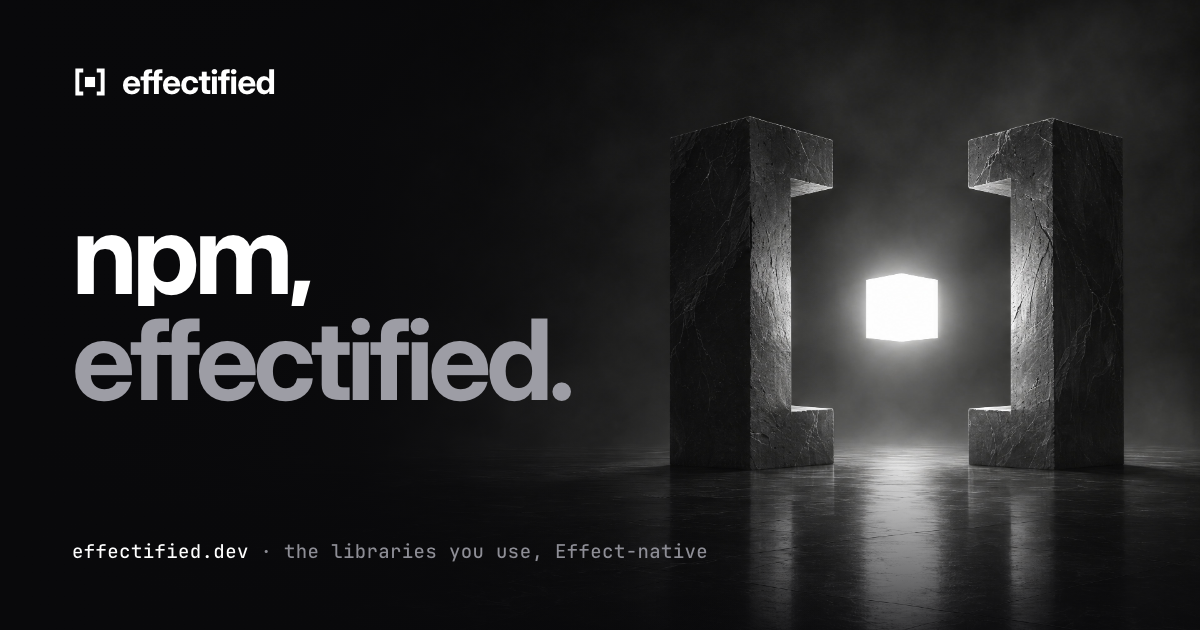
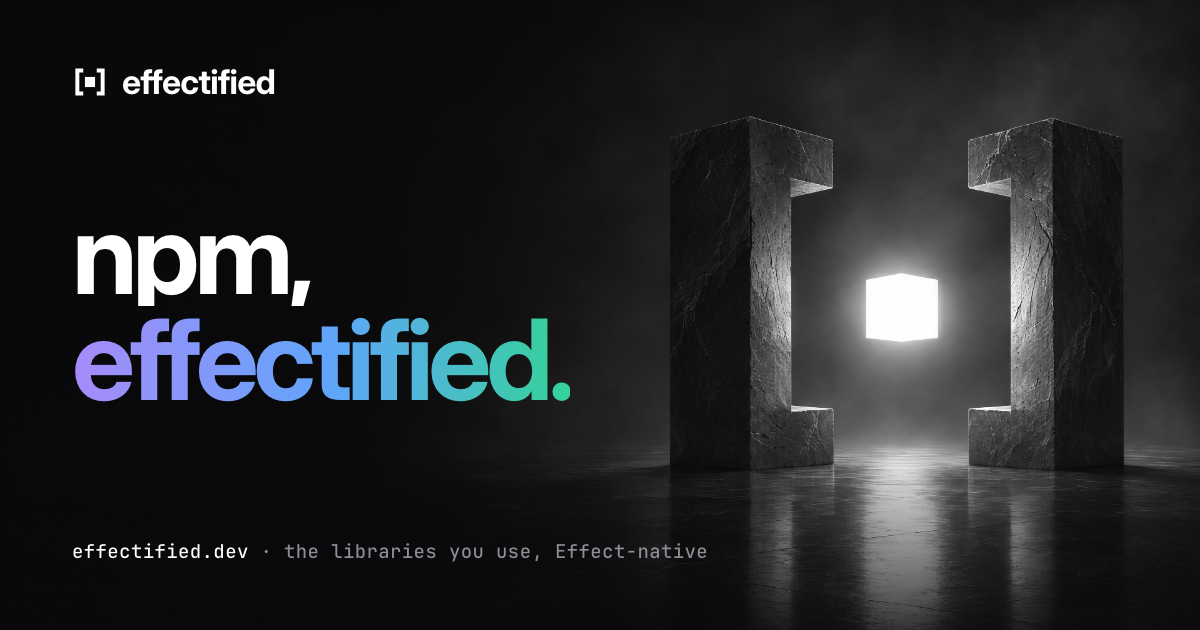
feat: colour from code, and installs from the GitHub release
Code uses effectified-dark, after effect.website's samples: violet keywords,
emerald strings, cyan modules and types, blue functions. A violet-sky-emerald
spectrum marks the hero's "effectified.", the ticker, the effectified code
pane and a light leak around the hero's cube; each promise and each package
kind has a colour of the palette. The photographs stay monochrome.

The packages install from the effectified/pi release v0.1.0 instead of npm:
an install box with npm, pnpm and Bun tabs and a copy button in the catalog
and the closing room, each package name links its tarball, and the family
links its release.

Changed region(s): [[0.0617, 0.4825, 0.4933, 0.6333]]

diff --git a/src/styles/site.css b/src/styles/site.css
@@ -26,6 +26,12 @@
 	--warn: #facc15;
 	--need: #60a5fa;
 
+	/* Accents, from the code theme: effect.website's violet and emerald, with sky between them */
+	--violet: #a78bfa;
+	--sky: #60a5fa;
+	--emerald: #34d399;
+	--spectrum: linear-gradient(90deg, var(--violet) 0%, var(--sky) 52%, var(--emerald) 100%);
+
 	--display: "Inter Display", Inter, ui-sans-serif, system-ui, sans-serif;
 	--sans: Inter, ui-sans-serif, system-ui, sans-serif;
 	--mono: "JetBrains Mono", ui-monospace, SFMono-Regular, Menlo, monospace;
@@ -125,7 +131,7 @@ code, pre { font-family: var(--mono); font-feature-settings: "calt" 1, "liga" 1;
 }
 .btn:active { transform: translateY(1px); }
 .btn-solid { background: var(--white); color: var(--ink); box-shadow: 0 0 0 rgb(255 255 255 / 0); }
-.btn-solid:hover { background: var(--mist); box-shadow: 0 0 40px -6px rgb(255 255 255 / 0.45); }
+.btn-solid:hover { background: var(--mist); box-shadow: 0 0 40px -6px rgb(167 139 250 / 0.6), 0 0 60px -12px rgb(52 211 153 / 0.4); }
 .btn-ghost { background: rgb(9 9 11 / 0.55); color: var(--white); border: 1px solid var(--line-strong); backdrop-filter: blur(8px); -webkit-backdrop-filter: blur(8px); }
 .btn-ghost:hover { background: rgb(24 24 26 / 0.8); border-color: #a1a1aa; }
 .btn-small { height: 40px; padding: 0 18px; font-size: 13px; }
@@ -175,6 +181,29 @@ h3 { font-size: 1.25rem; font-weight: 600; line-height: 1.25; letter-spacing: -0
 
 .hero-scene .scene-img { object-position: 78% 50%; animation: light-up 2.2s var(--ease) both; }
 
+/* A coloured light leak around the cube: the photograph stays monochrome, the light it gives off does not */
+.hero-leak {
+	position: absolute;
+	inset: 0;
+	z-index: -1;
+	pointer-events: none;
+	mix-blend-mode: screen;
+	background:
+		radial-gradient(22% 30% at 74% 50%, rgb(167 139 250 / 0.28), transparent 70%),
+		radial-gradient(30% 22% at 78% 74%, rgb(52 211 153 / 0.14), transparent 70%),
+		radial-gradient(18% 26% at 68% 40%, rgb(96 165 250 / 0.16), transparent 70%);
+}
+
+.spectrum {
+	display: inline-block;
+	background: var(--spectrum);
+	-webkit-background-clip: text;
+	background-clip: text;
+	color: transparent;
+	text-shadow: none;
+	padding-bottom: 0.06em;
+}
+
 .hero-scrim {
 	background:
 		linear-gradient(90deg, var(--ink) 0%, rgb(9 9 11 / 0.92) 26%, rgb(9 9 11 / 0.55) 46%, rgb(9 9 11 / 0) 64%),
@@ -185,7 +214,7 @@ h3 { font-size: 1.25rem; font-weight: 600; line-height: 1.25; letter-spacing: -0
 .hero-copy { max-width: 2240px; }
 .hero-copy > * { max-width: 760px; }
 .hero h1 { margin-top: 26px; font-size: clamp(3.2rem, 7vw, 8rem); line-height: 0.95; letter-spacing: -0.045em; text-shadow: 0 0 3px var(--ink), 0 0 22px rgb(9 9 11 / 0.7); }
-.hero h1 .fade { text-shadow: none; }
+.hero h1 .fade { display: block; text-shadow: none; }
 .hero h1 .dim { display: block; }
 .hero .lede { margin-top: 30px; max-width: 36em; text-shadow: 0 0 14px var(--ink); }
 
@@ -203,7 +232,7 @@ h3 { font-size: 1.25rem; font-weight: 600; line-height: 1.25; letter-spacing: -0
 .wrapper { display: inline-flex; align-items: center; color: var(--white); font: 500 15px/1 var(--mono); }
 .bracket { display: inline-block; font-size: 1.4em; transition: transform 700ms var(--ease); }
 .wrapper-name { display: inline-block; min-width: 13ch; text-align: center; }
-.wrapper-name span { display: inline-block; transition: opacity 360ms var(--ease), filter 360ms var(--ease); }
+.wrapper-name span { display: inline-block; transition: opacity 360ms var(--ease), filter 360ms var(--ease); background: var(--spectrum); -webkit-background-clip: text; background-clip: text; color: transparent; }
 .wrapper[data-state="open"] .bracket-l { transform: translateX(-10px); }
 .wrapper[data-state="open"] .bracket-r { transform: translateX(10px); }
 .wrapper[data-state="open"] .wrapper-name span { opacity: 0.2; filter: blur(3px); }
@@ -213,7 +242,21 @@ h3 { font-size: 1.25rem; font-weight: 600; line-height: 1.25; letter-spacing: -0
 .compare { display: grid; grid-template-columns: repeat(2, minmax(0, 1fr)); gap: 16px; }
 
 .pane { border: 1px solid var(--line); border-radius: 14px; background: var(--well); overflow: hidden; display: flex; flex-direction: column; }
-.pane-lit { border-color: var(--line-strong); box-shadow: 0 40px 120px -40px rgb(255 255 255 / 0.12), 0 0 0 1px rgb(255 255 255 / 0.03); }
+/* The effectified side: a spectrum edge and a coloured glow below it */
+.pane-lit {
+	border: 1px solid transparent;
+	background: linear-gradient(var(--well), var(--well)) padding-box, linear-gradient(135deg, rgb(167 139 250 / 0.7), rgb(96 165 250 / 0.35) 45%, rgb(52 211 153 / 0.7)) border-box;
+	box-shadow: 0 40px 120px -40px rgb(167 139 250 / 0.35), 0 50px 140px -60px rgb(52 211 153 / 0.3);
+}
+.compare { position: relative; }
+.compare::before {
+	content: "";
+	position: absolute;
+	inset: -10% 0 -20% 30%;
+	z-index: -1;
+	pointer-events: none;
+	background: radial-gradient(50% 50% at 60% 50%, rgb(167 139 250 / 0.1), transparent 70%), radial-gradient(40% 40% at 80% 80%, rgb(52 211 153 / 0.08), transparent 70%);
+}
 .pane-head { display: flex; justify-content: space-between; align-items: center; gap: 12px; padding: 14px 20px; border-bottom: 1px solid var(--line); }
 .pane-head .label { font-size: 11.5px; }
 .pane-lit .pane-head .label:first-child { color: var(--white); }
@@ -250,7 +293,20 @@ h3 { font-size: 1.25rem; font-weight: 600; line-height: 1.25; letter-spacing: -0
 
 .promises { display: grid; grid-template-columns: repeat(3, minmax(0, 1fr)); gap: 16px; }
 .promises > div { padding: 28px 28px 32px; min-height: 230px; }
-.promises .num { display: block; margin-bottom: 40px; font: 500 12px/1 var(--mono); color: var(--muted); letter-spacing: 0.08em; }
+.promises .num { display: inline-flex; align-items: center; gap: 10px; margin-bottom: 40px; font: 500 12px/1 var(--mono); color: var(--tone); letter-spacing: 0.08em; }
+.promises .num::before { content: ""; width: 8px; height: 8px; border-radius: 2px; background: var(--tone); box-shadow: 0 0 14px var(--tone); }
+.promises > div { position: relative; overflow: hidden; }
+.promises > div::after {
+	content: "";
+	position: absolute;
+	left: 0;
+	right: 0;
+	top: 0;
+	height: 1px;
+	background: linear-gradient(90deg, transparent, var(--tone), transparent);
+	opacity: 0.7;
+}
+.promises > div:hover { border-color: color-mix(in srgb, var(--tone) 55%, transparent); box-shadow: 0 20px 60px -30px var(--tone); }
 .promises p { margin: 12px 0 0; max-width: 46ch; text-wrap: pretty; }
 
 /* How it works: the band of three stages, the stations below their stage */
@@ -290,8 +346,18 @@ h3 { font-size: 1.25rem; font-weight: 600; line-height: 1.25; letter-spacing: -0
 .pkgs tbody tr { transition: background 120ms; }
 .pkgs tbody tr:hover { background: rgb(255 255 255 / 0.025); }
 .pkgs .name { font: 500 13.5px/1.5 var(--mono); color: var(--white); white-space: nowrap; }
+.pkgs .name a { transition: color 140ms; }
+.pkgs .name a:hover { color: var(--violet); }
+
+/* Kinds: a colour dot each, the same in the table and the legend */
+.k-facade { --k: #38bdf8; }
+.k-plugin { --k: #a78bfa; }
+.k-host { --k: #fbbf24; }
+.k-composition { --k: #34d399; }
+.k-docs { --k: #a1a1aa; }
+.pkgs .kind::before, .kinds b::before { content: ""; display: inline-block; width: 7px; height: 7px; margin-right: 8px; border-radius: 50%; background: var(--k); box-shadow: 0 0 10px var(--k); vertical-align: 1px; }
 .pkgs .name .scope { color: var(--muted); }
-.pkgs .kind { font: 500 12px/1.5 var(--mono); color: var(--mist); }
+.pkgs .kind { font: 500 12px/1.5 var(--mono); color: var(--mist); white-space: nowrap; }
 .pkgs .wraps { font: 400 12.5px/1.5 var(--mono); color: var(--subtle); }
 
 .kinds { display: grid; grid-template-columns: repeat(5, minmax(0, 1fr)); margin-top: 16px; border-top: 1px solid var(--line); }
@@ -313,11 +379,33 @@ h3 { font-size: 1.25rem; font-weight: 600; line-height: 1.25; letter-spacing: -0
 .closing .scene-img { object-position: 50% 70%; }
 .closing h2 { margin-top: 22px; font-size: clamp(2.8rem, 7vw, 6.5rem); line-height: 0.96; letter-spacing: -0.045em; }
 .closing h2 .dim { display: block; }
-.terminal { margin-top: clamp(48px, 18vw, 340px); max-width: 760px; border: 1px solid var(--line-strong); border-radius: 14px; background: rgb(12 12 14 / 0.78); backdrop-filter: blur(12px); -webkit-backdrop-filter: blur(12px); box-shadow: 0 30px 90px -30px rgb(0 0 0 / 0.9); overflow: hidden; }
-.terminal-bar { display: flex; gap: 7px; padding: 13px 16px; border-bottom: 1px solid var(--line); }
-.terminal-bar i { width: 10px; height: 10px; border-radius: 50%; background: var(--line-strong); }
-.terminal pre { margin: 0; padding: 20px 22px; font-size: 13.5px; line-height: 1.8; color: #d4d4d8; overflow-x: auto; }
-.terminal .p { color: var(--muted); }
+.closing-install { margin-top: clamp(48px, 16vw, 300px); max-width: 980px; }
+
+/* Install: one package from its GitHub release, per package manager */
+
+.install {
+	border: 1px solid var(--line-strong);
+	border-radius: 14px;
+	background: rgb(12 12 14 / 0.82);
+	backdrop-filter: blur(12px);
+	-webkit-backdrop-filter: blur(12px);
+	box-shadow: 0 30px 90px -30px rgb(0 0 0 / 0.9), 0 0 60px -30px rgb(167 139 250 / 0.35);
+	overflow: hidden;
+}
+.install-bar { display: flex; justify-content: space-between; align-items: center; gap: 12px; padding: 8px 10px 8px 8px; border-bottom: 1px solid var(--line); }
+.install-tabs { display: flex; gap: 4px; }
+.install button { font: 500 12.5px/1 var(--mono); color: var(--muted); background: none; border: 1px solid transparent; border-radius: 7px; padding: 8px 12px; cursor: pointer; transition: color 140ms, background 140ms, border-color 140ms; }
+.install button:hover { color: var(--white); }
+.install [role="tab"][aria-selected="true"] { color: var(--white); background: var(--tile); border-color: var(--line-strong); }
+.install-copy { border-color: var(--line) !important; }
+.install-line { margin: 0; padding: 18px 20px; font-size: 13px; line-height: 1.7; color: var(--mist); white-space: pre-wrap; word-break: break-all; }
+.install-line .p { color: var(--violet); user-select: none; }
+.install-line code { font-size: inherit; color: inherit; }
+
+.release { display: grid; grid-template-columns: minmax(0, 0.9fr) minmax(0, 1.4fr); gap: 32px; align-items: center; margin-top: 40px; padding-top: 32px; border-top: 1px solid var(--line); }
+.release p { margin: 12px 0 0; max-width: 46ch; }
+.release a { color: var(--white); border-bottom: 1px solid var(--line-strong); }
+.release a:hover { border-color: var(--violet); }
 
 /* Footer */
 
@@ -374,6 +462,7 @@ h3 { font-size: 1.25rem; font-weight: 600; line-height: 1.25; letter-spacing: -0
 @media (max-width: 1000px) {
 	.compare, .pipeline { grid-template-columns: minmax(0, 1fr); }
 	.pipeline { margin-top: 16px; }
+	.release { grid-template-columns: minmax(0, 1fr); }
 	.band .scene-img { aspect-ratio: 2 / 1; object-position: 50% 60%; }
 }
 
@@ -385,6 +474,7 @@ h3 { font-size: 1.25rem; font-weight: 600; line-height: 1.25; letter-spacing: -0
 	.hero { flex-direction: column; align-items: stretch; padding: 56px 0 0; min-height: 0; }
 	.hero-scene { position: relative; inset: auto; order: 2; height: 46svh; margin-top: 40px; }
 	.hero-scene .scene-img { object-position: 74% 50%; }
+	.hero-leak { top: auto; height: 46svh; }
 	.hero-scrim { background: linear-gradient(180deg, var(--ink) 0%, rgb(9 9 11 / 0) 30%), linear-gradient(0deg, var(--ink) 0%, rgb(9 9 11 / 0) 25%); top: auto; height: 46svh; }
 	.contract-scrim { background: rgb(9 9 11 / 0.86); }
 	.field-scrim { background: linear-gradient(180deg, var(--ink) 0%, rgb(9 9 11 / 0.75) 45%, rgb(9 9 11 / 0.6) 80%, var(--ink) 100%); }
@@ -393,6 +483,10 @@ h3 { font-size: 1.25rem; font-weight: 600; line-height: 1.25; letter-spacing: -0
 	.promises .num { margin-bottom: 18px; }
 
 	/* One package per block: the name over its kind and summary */
+	.install-bar { padding: 6px; }
+	.install button { padding: 7px 9px; }
+	.install-line { padding: 14px 16px; font-size: 12px; }
+	.release { grid-template-columns: minmax(0, 1fr); }
 	.pkgs thead { display: none; }
 	.pkgs tr { display: block; padding: 16px 18px; border-bottom: 1px solid var(--line); }
 	.pkgs tr:last-child { border-bottom: 0; }

diff --git a/src/code-theme.ts b/src/code-theme.ts
@@ -1,19 +1,29 @@
-// The monochrome code theme of the brand: keywords white, names near-white, strings and punctuation zinc, comments muted.
+// The site's code theme, in the spirit of effect.website's samples: violet keywords, emerald strings, cyan for
+// Effect's modules and types, blue functions, orange numbers, muted comments, on the brand's zinc well.
 import type { ThemeRegistration } from "shiki";
 
-/** EffectScript's monochrome Shiki theme, shared by the effectified family of sites. */
-export const monochrome: ThemeRegistration = {
-	name: "effectified-mono",
+/** Effect-style dark syntax colours, used by every code block on the site. */
+export const effectifiedDark: ThemeRegistration = {
+	name: "effectified-dark",
 	type: "dark",
-	colors: { "editor.background": "#0c0c0e", "editor.foreground": "#d4d4d8" },
+	colors: { "editor.background": "#0c0c0e", "editor.foreground": "#e4e4e7" },
 	settings: [
-		{ settings: { foreground: "#d4d4d8" } },
-		{ scope: ["comment", "punctuation.definition.comment"], settings: { foreground: "#8e8e96", fontStyle: "italic" } },
-		{ scope: ["keyword", "storage", "storage.type", "keyword.control", "keyword.operator.new"], settings: { foreground: "#ffffff" } },
-		{ scope: ["string", "string.quoted", "string.template"], settings: { foreground: "#a1a1aa" } },
-		{ scope: ["constant.numeric", "support.type", "entity.name.type", "entity.name.class"], settings: { foreground: "#e4e4e7" } },
-		{ scope: ["entity.name.function", "support.function", "meta.function-call"], settings: { foreground: "#f4f4f5" } },
-		{ scope: ["variable", "variable.other", "meta.object-literal.key"], settings: { foreground: "#d4d4d8" } },
-		{ scope: ["punctuation", "meta.brace", "keyword.operator"], settings: { foreground: "#8e8e96" } },
+		{ settings: { foreground: "#e4e4e7" } },
+		{ scope: ["comment", "punctuation.definition.comment"], settings: { foreground: "#71717a", fontStyle: "italic" } },
+		{
+			scope: ["keyword", "storage", "storage.type", "storage.modifier", "keyword.control", "keyword.operator.new", "keyword.operator.expression", "keyword.generator.asterisk"],
+			settings: { foreground: "#a78bfa" },
+		},
+		{ scope: ["string", "string.quoted", "string.template", "punctuation.definition.string"], settings: { foreground: "#34d399" } },
+		{ scope: ["constant.numeric", "constant.language", "constant.character"], settings: { foreground: "#fdba74" } },
+		{
+			scope: ["entity.name.type", "entity.name.class", "support.type", "support.class", "variable.other.object", "variable.other.constant.object", "entity.other.inherited-class"],
+			settings: { foreground: "#67e8f9" },
+		},
+		{ scope: ["entity.name.function", "support.function", "meta.function-call entity.name.function", "variable.function"], settings: { foreground: "#93c5fd" } },
+		{ scope: ["variable.parameter"], settings: { foreground: "#fda4af" } },
+		{ scope: ["meta.object-literal.key", "support.type.property-name", "variable.other.property"], settings: { foreground: "#d4d4d8" } },
+		{ scope: ["punctuation", "meta.brace", "keyword.operator"], settings: { foreground: "#a1a1aa" } },
+		{ scope: ["variable.language.this", "variable.language"], settings: { foreground: "#a78bfa" } },
 	],
 };

diff --git a/src/data/catalog.ts b/src/data/catalog.ts
@@ -21,6 +21,8 @@ export interface Family {
 	/** The npm scope of the family's packages. */
 	readonly scope: string;
 	readonly status: "alpha";
+	/** The GitHub release the packages install from: `<base>/<scope>-<name>-<version>.tgz`. */
+	readonly release: { readonly tag: string; readonly version: string; readonly base: string };
 	readonly effect: string;
 	readonly packages: ReadonlyArray<Package>;
 }
@@ -43,6 +45,11 @@ export const FAMILIES: ReadonlyArray<Family> = [
 		repo: "https://github.com/effectified/pi",
 		scope: "@effectified",
 		status: "alpha",
+		release: {
+			tag: "v0.1.0",
+			version: "0.1.0",
+			base: "https://github.com/effectified/pi/releases/download/v0.1.0",
+		},
 		effect: "~4.1.5",
 		packages: [
 			{
@@ -151,3 +158,8 @@ export const totals = {
 	packages: FAMILIES.reduce((sum, family) => sum + family.packages.length, 0),
 	upstream: new Set(FAMILIES.flatMap((family) => family.packages.flatMap((pkg) => pkg.wraps.map((w) => `${family.id}/${w}`)))).size,
 };
+
+/** The release URL of a package's tarball, as `npm pack` names it. */
+export function tarballUrl(family: Family, pkg: Package): string {
+	return `${family.release.base}/${family.scope.slice(1)}-${pkg.name}-${family.release.version}.tgz`;
+}

diff --git a/brand/og.html b/brand/og.html
@@ -20,7 +20,7 @@
 			.lockup span { font: 700 34px/1 "Inter Display"; letter-spacing: -0.022em; }
 			h1 { position: absolute; left: 72px; top: 200px; margin: 0; font: 700 112px/0.95 "Inter Display"; letter-spacing: -0.045em; }
 			h1 .a { background: linear-gradient(90deg, #fff 0%, #fff 70%, #96969c 100%); -webkit-background-clip: text; color: transparent; display: block; }
-			h1 .b { color: #9d9da5; display: block; }
+			h1 .b { background: linear-gradient(90deg, #a78bfa 0%, #60a5fa 52%, #34d399 100%); -webkit-background-clip: text; color: transparent; display: inline-block; padding-bottom: 0.06em; }
 			p { position: absolute; left: 72px; bottom: 64px; margin: 0; font: 500 19px/1.4 "JetBrains Mono"; letter-spacing: 0.02em; color: #8e8e96; }
 			p b { color: #fff; font-weight: 500; }
 		</style>

diff --git a/README.md b/README.md
@@ -44,8 +44,15 @@ are computed from it at build time; never write a number into the page by hand.
 ## Brand
 
 The EffectScript exhibition system on ink: Effect's zinc palette, Inter Display for headlines, Inter for body,
-JetBrains Mono for code and labels. Light is the only colour; the signal colours (✓ pass, ! fail, ▲ warn,
-◇ need) mark state only, always with their glyph.
+JetBrains Mono for code and labels. The photographs stay monochrome; colour comes from code, as on
+effect.website:
+
+- Code uses `effectified-dark` (`src/code-theme.ts`): violet keywords, emerald strings, cyan for Effect's modules and
+  types, blue functions, orange numbers, muted comments.
+- The accent is the spectrum violet → sky → emerald (`--spectrum`), used sparingly: the hero's "effectified.", the
+  ticker, the effectified code pane's edge and glow, and the light leak around the hero's cube.
+- Each promise and each package kind has one colour from the code palette, shown as a dot or a thin rule.
+- The signal colours (✓ pass, ! fail, ▲ warn, ◇ need) still mark state only, always with their glyph.
 
 The mark is two brackets closed around a solid square: a library, wrapped. It lives in
 [`public/mark.svg`](public/mark.svg) (`currentColor`) and [`public/favicon.svg`](public/favicon.svg). White on
